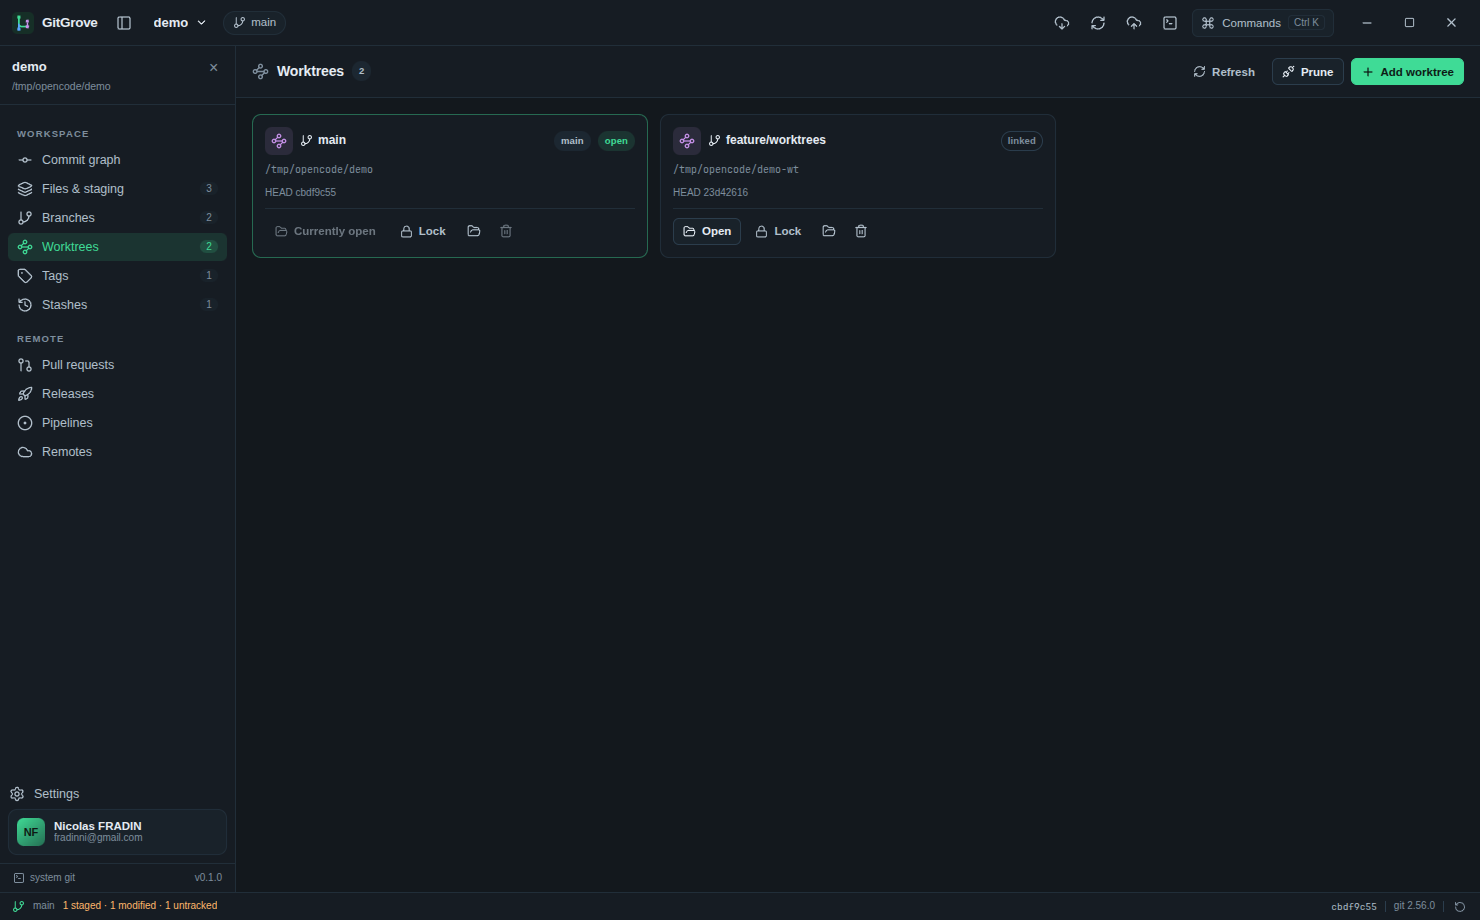
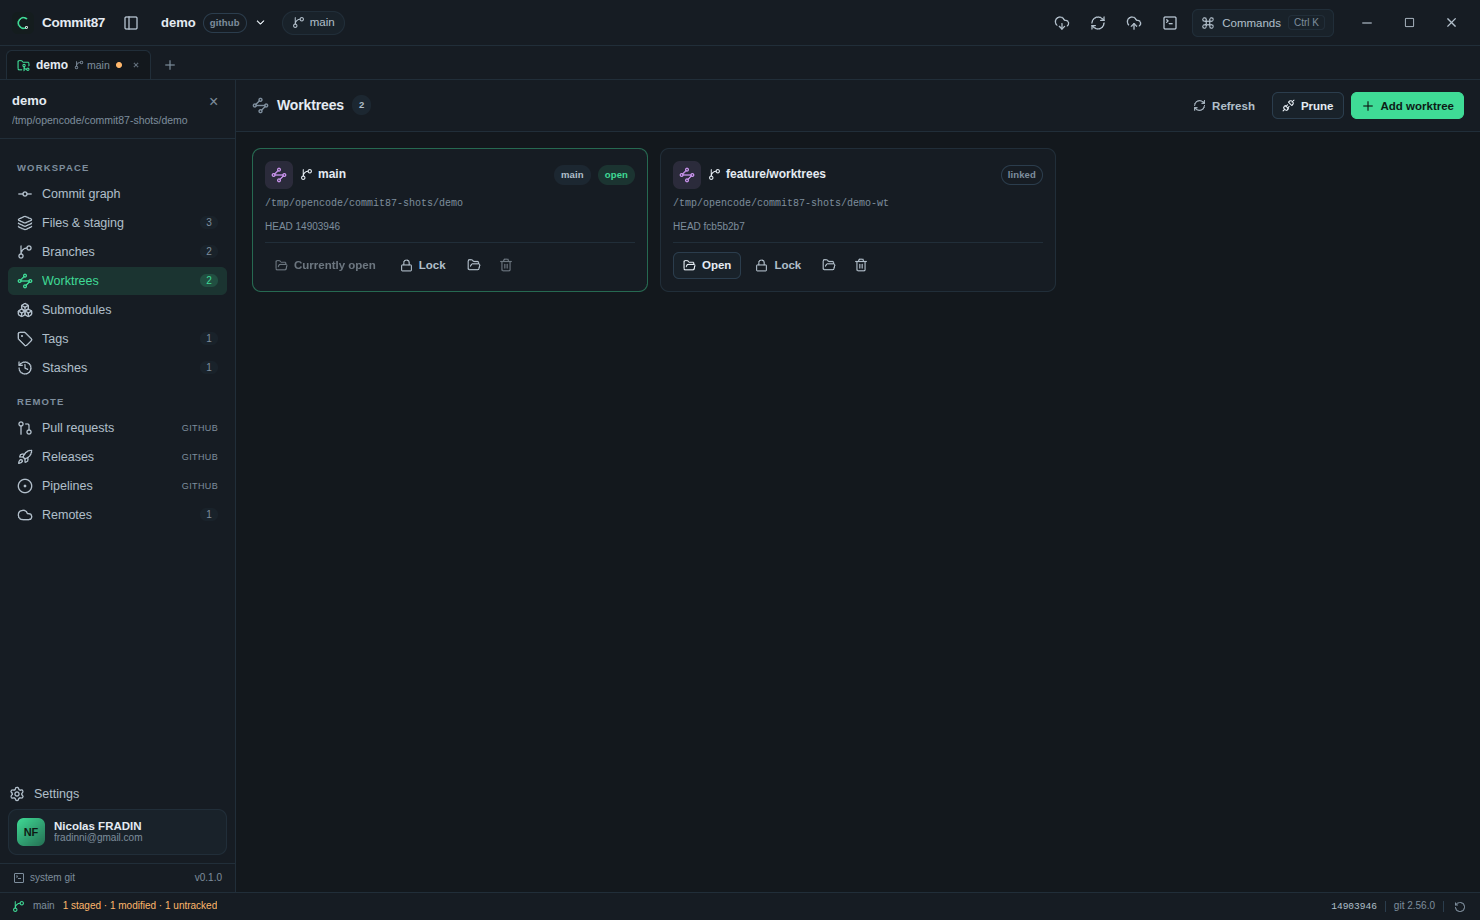
docs: refresh screenshots and fix the graph header spacing
Regenerate the documentation screenshots from the current Commit87 build so they show the renamed title bar, repository tabs and current views.

The commit graph header merged the GRAPH and DESCRIPTION labels when the graph column was narrow (single-lane repositories); give that column a minimum width so the labels stay separated.

diff --git a/src/renderer/src/styles/views.css b/src/renderer/src/styles/views.css
@@ -402,7 +402,7 @@
 
 .commit-head {
   display: grid;
-  grid-template-columns: var(--refs-w, 176px) var(--graph-w, 44px) minmax(240px, 1fr) 150px 92px 72px;
+  grid-template-columns: var(--refs-w, 176px) max(52px, var(--graph-w, 44px)) minmax(240px, 1fr) 150px 92px 72px;
   align-items: center;
   gap: 0;
   height: 28px;
@@ -457,7 +457,7 @@
 
 .commit-row {
   display: grid;
-  grid-template-columns: var(--refs-w, 176px) var(--graph-w, 44px) minmax(240px, 1fr) 150px 92px 72px;
+  grid-template-columns: var(--refs-w, 176px) max(52px, var(--graph-w, 44px)) minmax(240px, 1fr) 150px 92px 72px;
   align-items: center;
   gap: 0;
   height: var(--row-h);
